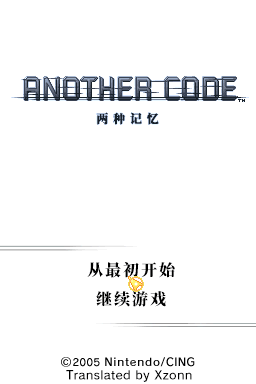
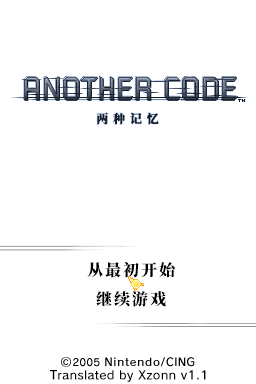
Update Readme and screenshot

Changed region(s): [[0.1875, 0.9375, 0.8125, 1.0], [0.5, 0.7188, 0.5625, 0.7812]]

diff --git a/README.md b/README.md
@@ -5,7 +5,7 @@
 ## 基本说明
 本项目是对《Another Code 两种记忆》（<span lang="ja">アナザーコード 2つの記憶</span>，异色代码 双重记忆）的简体中文的本地化。
 
-本汉化对游戏中图片的文本进行了翻译，并且对游戏中存在的所有文本均重新翻译校对。由于修改了可执行文件，如本汉化版存在无法触发对话的问题，请及时向我反馈以便排查问题。
+本汉化对游戏中图片的文本进行了翻译，并且对游戏中存在的所有文本均重新翻译校对。
 
 人名等专有名词的译名参照了《Another Code 回忆录：两种记忆／记忆之门》官方中文版的翻译，部分文本因技术限制未能与官方中文版保持一致。
 
